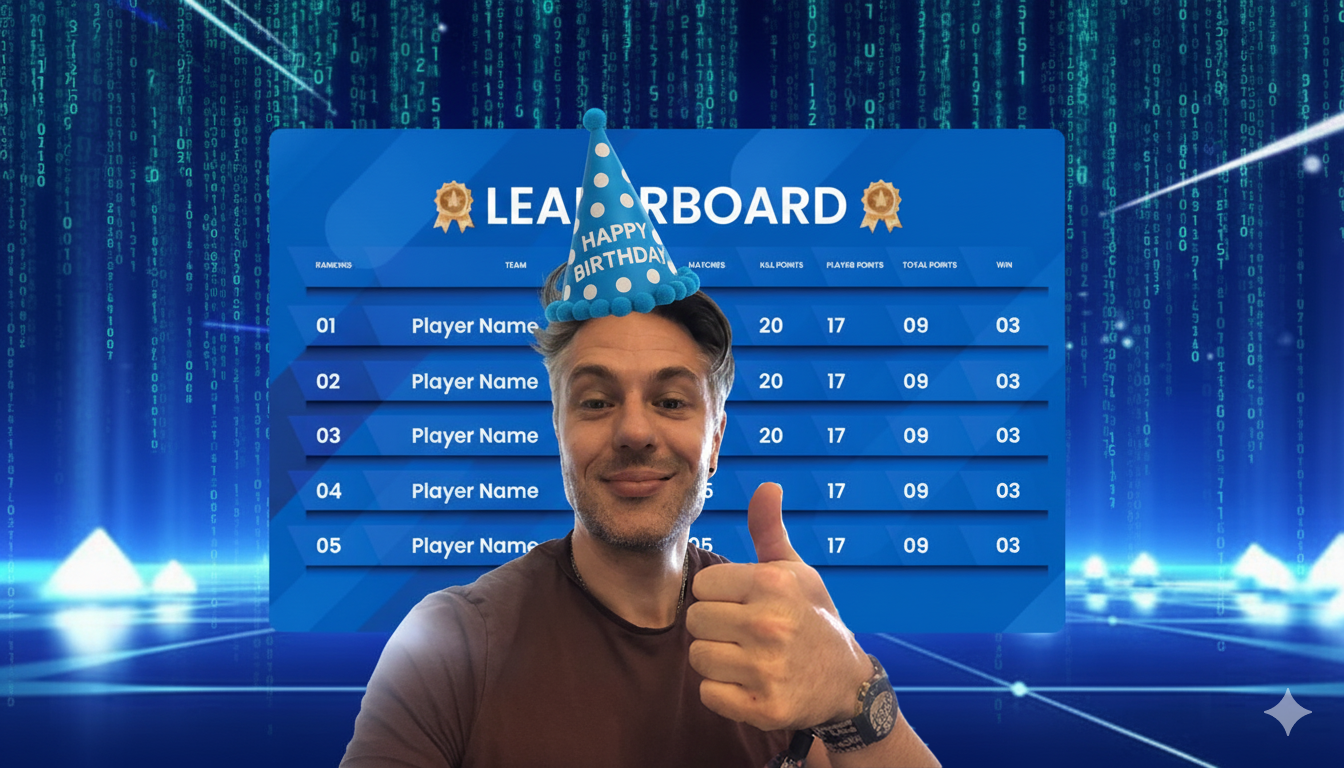
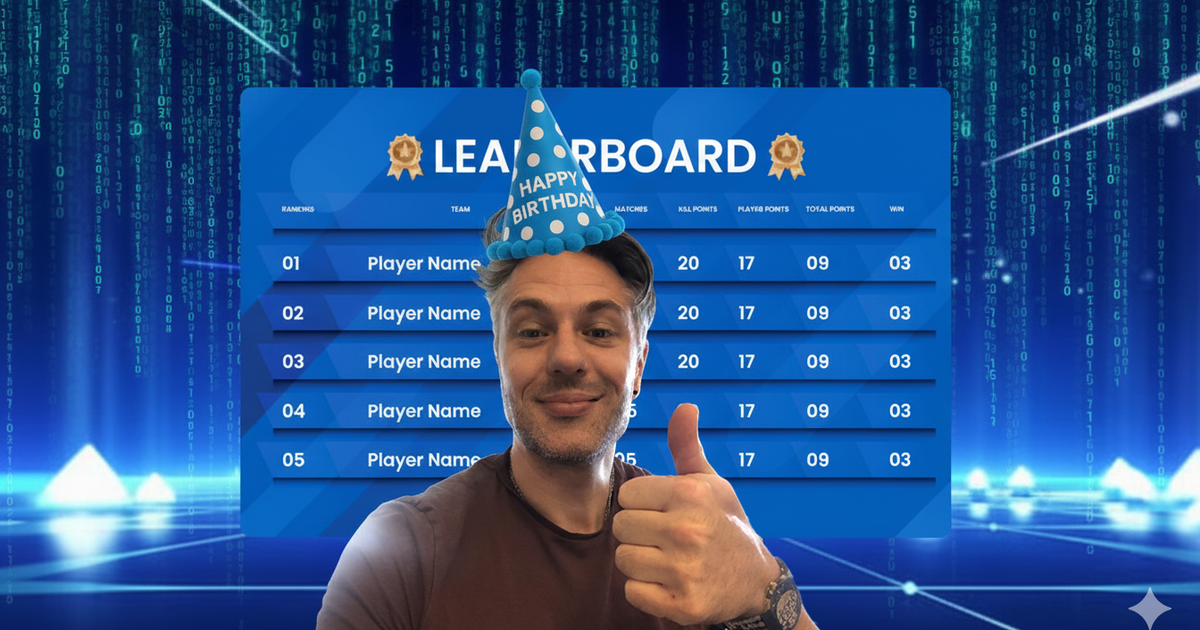
Optimize images for web performance
- Resized favicon from 9.6MB to 2.8KB (32x32) and 0.9KB (16x16)
- Optimized social_share.png from 1.4MB to 1017KB at 1200x630px
- Updated favicon links to use properly sized images

🤖 Generated with [Claude Code](https://claude.ai/code)

diff --git a/templates/base.html b/templates/base.html
@@ -6,7 +6,8 @@
     <title>{% block title %}Birthday Scoreboard{% endblock %}</title>
 
     <!-- Favicon -->
-    <link rel="icon" type="image/png" href="{{ url_for('static', filename='fav.png') }}">
+    <link rel="icon" type="image/png" sizes="32x32" href="{{ url_for('static', filename='favicon.png') }}">
+    <link rel="icon" type="image/png" sizes="16x16" href="{{ url_for('static', filename='favicon-16x16.png') }}">
 
     <!-- Open Graph / Social Media -->
     <meta property="og:type" content="website">
